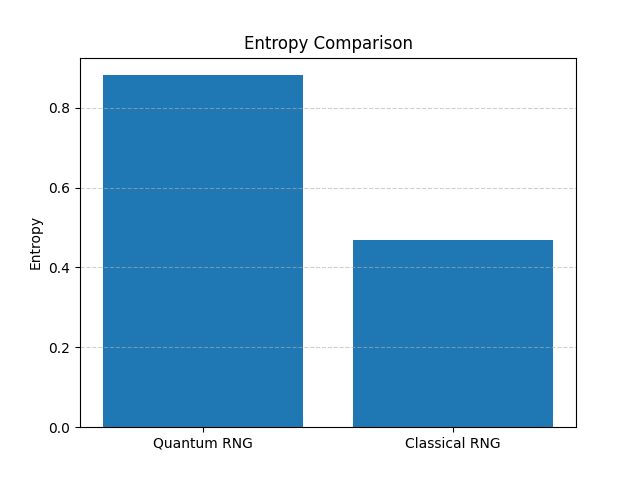
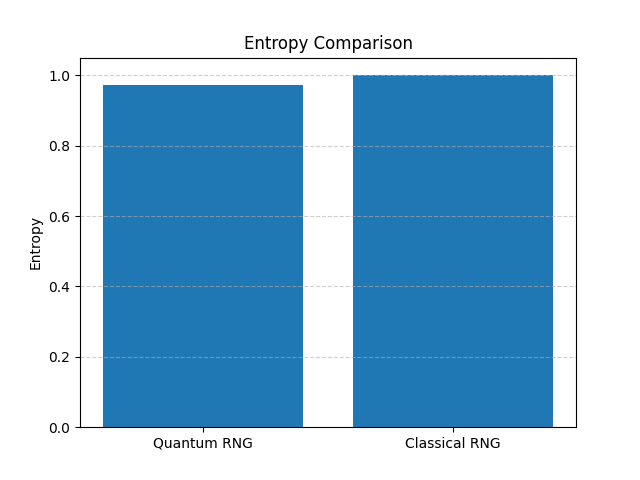
feat: Enhance comparison API and frontend to include quantum and classical bit samples

diff --git a/QRNG_PROJECT/frontend/src/app/compare/page.tsx b/QRNG_PROJECT/frontend/src/app/compare/page.tsx
@@ -6,7 +6,25 @@ import { BarChart, Bar, XAxis, YAxis, Tooltip, ResponsiveContainer, Legend } fro
 interface ComparisonResult {
   quantum_entropy: number;
   classical_entropy: number;
+  quantum_bits: string;
+  classical_bits: string;
 }
+
+const formatBits = (bits: string, maxLen = 64) => {
+  if (!bits) return "";
+  if (bits.length <= maxLen) return bits;
+  return `${bits.slice(0, maxLen)}...`;
+};
+
+const bitsToNumber = (bits: string, chunk = 32) => {
+  if (!bits || bits.length < 1) return null;
+  const slice = bits.slice(0, chunk);
+  try {
+    return Number.parseInt(slice, 2);
+  } catch {
+    return null;
+  }
+};
 
 export default function ComparePage() {
   const [result, setResult] = useState<ComparisonResult | null>(null);
@@ -48,6 +66,16 @@ export default function ComparePage() {
           <div className="bg-gray-800 rounded-xl p-6">
             <p className="text-gray-400 text-sm">Classical Entropy</p>
             <p className="text-3xl font-bold text-blue-400">{result.classical_entropy?.toFixed(4)}</p>
+          </div>
+          <div className="bg-gray-800 rounded-xl p-6">
+            <p className="text-gray-400 text-sm">Quantum sample number (first 32 bits)</p>
+            <p className="text-2xl font-bold text-cyan-400">{bitsToNumber(result.quantum_bits)}</p>
+            <p className="text-gray-400 text-xs break-words mt-2">{formatBits(result.quantum_bits, 80)}</p>
+          </div>
+          <div className="bg-gray-800 rounded-xl p-6">
+            <p className="text-gray-400 text-sm">Classical sample number (first 32 bits)</p>
+            <p className="text-2xl font-bold text-blue-400">{bitsToNumber(result.classical_bits)}</p>
+            <p className="text-gray-400 text-xs break-words mt-2">{formatBits(result.classical_bits, 80)}</p>
           </div>
           <div className="bg-gray-800 rounded-xl p-6 col-span-2 h-64">
             <ResponsiveContainer width="100%" height="100%">

diff --git a/QRNG_PROJECT/backend/app/services/analysis_service.py b/QRNG_PROJECT/backend/app/services/analysis_service.py
@@ -1,96 +1,77 @@
-# from numpy import ones, zeros
 import os
+import time
 import matplotlib.pyplot as plt
 from dotenv import load_dotenv
 from urllib.parse import urljoin
 
-load_dotenv()
-BACKEND_URL = os.getenv("BACKEND_URL", "http://localhost:8000")
-from app.utils.randomness_tests import frequency_test, entropy_test
+from app.utils.randomness_tests import frequency_test, entropy_test, chi_square_test
 from app.services.quantum_service import generate_qubits
 from app.services.classical_rng_service import generate_classical_bits
-from app.utils.visualization import plot_entropy_progress
-from app.utils.visualization import save_bit_distribution_plot
-from app.utils.visualization import save_entropy_comparison_plot
-from app.utils.randomness_tests import chi_square_test
+from app.utils.visualization import save_bit_distribution_plot, save_entropy_comparison_plot
+
+load_dotenv()
+BACKEND_URL = os.getenv("BACKEND_URL", "http://localhost:8000")
+
+
+def _to_bitstring(bits) -> str:
+    """Normalise any bit source (string or list) to a plain '0'/'1' string."""
+    if isinstance(bits, list):
+        return "".join(str(b) for b in bits)
+    return str(bits)
+
+
+def _make_url(plot_path: str) -> str:
+    """Convert a local file path to an absolute backend URL."""
+    clean = plot_path.replace("\\", "/").lstrip("/")
+    return urljoin(BACKEND_URL.rstrip("/") + "/", clean)
+
+
 def run_randomness_analysis(bits):
-
-    frequency = frequency_test(bits)
-    entropy = entropy_test(bits)
-    chi_square = chi_square_test(bits)
-
+    bits = _to_bitstring(bits)
     return {
-        "frequency_test": frequency,
-        "entropy_test": entropy,
-        "chi_square_test": chi_square
+        "frequency_test": frequency_test(bits),
+        "entropy_test": entropy_test(bits),
+        "chi_square_test": chi_square_test(bits),
     }
-def plot_bit_distribution(zeros, ones):
-    import time
-    labels = ["0s", "1s"]
-    values = [zeros, ones]
 
-    plt.figure()
-    plt.bar(labels, values)
-    plt.title("Bit Distribution")
-    plt.ylabel("Count")
-    plt.grid(axis="y", linestyle="--", alpha=0.6)
 
-    filename = f"bit_distribution_{int(time.time())}.png"
-    plot_dir = os.path.join(os.path.dirname(os.path.abspath(__file__)), "../utils/static/plots")
-    os.makedirs(plot_dir, exist_ok=True)
-    plot_path = os.path.join(plot_dir, filename)
+def run_experiment(generator: str, sample_size: int):
+    raw = generate_qubits(sample_size) if generator == "quantum" \
+          else generate_classical_bits(sample_size)
 
-    plt.savefig(plot_path)
-    plt.close()
-
-    return plot_path
-
-def run_experiment(generator, sample_size):
-
-    if generator == "quantum":
-        bits = generate_qubits(sample_size)
-    else:
-        bits = generate_classical_bits(sample_size)
-
-    # 🔥 FIX: normalize all to string
-    bits = [str(b) for b in bits]
+    bits = _to_bitstring(raw)
 
     zeros = bits.count("0")
-    ones = bits.count("1")
-
-    ent = entropy_test(bits)
-    chi_square = chi_square_test(bits)
+    ones  = bits.count("1")
+    ent   = entropy_test(bits)
+    chi   = chi_square_test(bits)
 
     plot_path = save_bit_distribution_plot(zeros, ones)
-    # Normalize path separators and remove leading slashes for clean URL construction
-    clean_plot_path = plot_path.replace("\\", "/").lstrip("/")
-    distribution_url = urljoin(BACKEND_URL.rstrip("/") + "/", clean_plot_path)
 
     return {
-        "generator": generator,
-        "sample_size": sample_size,
-        "zeros": zeros,
-        "ones": ones,
-        "entropy": ent["entropy"],
-        "chi_square": chi_square["chi_square"],
-        "distribution_plot": distribution_url
+        "generator":         generator,
+        "sample_size":       sample_size,
+        "zeros":             zeros,
+        "ones":              ones,
+        "entropy":           ent["entropy"],
+        "chi_square":        chi["chi_square"],
+        "distribution_plot": _make_url(plot_path),
     }
 
-def compare_rng(sample_size):
 
-    quantum_bits = generate_qubits(sample_size)
-    classical_bits = generate_classical_bits(sample_size)
+def compare_rng(sample_size: int):
+    quantum_bits   = _to_bitstring(generate_qubits(sample_size))
+    classical_bits = _to_bitstring(generate_classical_bits(sample_size))
 
-    quantum_entropy = entropy_test(quantum_bits)["entropy"]
+    quantum_entropy   = entropy_test(quantum_bits)["entropy"]
     classical_entropy = entropy_test(classical_bits)["entropy"]
-    
+
     plot_path = save_entropy_comparison_plot(quantum_entropy, classical_entropy)
-    # Normalize path separators and remove leading slashes for clean URL construction
-    clean_plot_path = plot_path.replace("\\", "/").lstrip("/")
-    comparison_url = urljoin(BACKEND_URL.rstrip("/") + "/", clean_plot_path)
 
     return {
-        "quantum_entropy": quantum_entropy,
+        "quantum_entropy":   quantum_entropy,
         "classical_entropy": classical_entropy,
-        "comparison_plot": comparison_url
+        "quantum_bits":      quantum_bits,
+        "classical_bits":    classical_bits,
+        "comparison_plot":   _make_url(plot_path),
     }

diff --git a/QRNG_PROJECT/backend/app/services/quantum_service.py b/QRNG_PROJECT/backend/app/services/quantum_service.py
@@ -6,37 +6,34 @@ MAX_QUBITS = 24
 simulator = AerSimulator()
 
 
-def _generate_batch(size: int):
-
+def _generate_batch(size: int) -> str:
     qc = QuantumCircuit(size, size)
-
     qc.h(range(size))
-
     qc.measure(range(size), range(size))
 
     compiled = transpile(qc, simulator)
-
     job = simulator.run(compiled, shots=1)
-
     result = job.result()
-
     counts = result.get_counts()
 
     bitstring = list(counts.keys())[0]
 
+    # ✅ Fix 1: strip spaces Qiskit inserts for readability
+    bitstring = bitstring.replace(" ", "")
+
+    # ✅ Fix 2: reverse to get big-endian (qubit 0 = leftmost bit)
+    bitstring = bitstring[::-1]
+
     return bitstring
 
 
-def generate_qubits(sample_size: int):
-
+def generate_qubits(sample_size: int) -> str:
     bits = ""
 
     while len(bits) < sample_size:
-
         batch_size = min(MAX_QUBITS, sample_size - len(bits))
-
         batch_bits = _generate_batch(batch_size)
-
         bits += batch_bits
 
-    return bits
+    # ✅ Trim to exact size in case last batch overshot
+    return bits[:sample_size]

diff --git a/QRNG_PROJECT/backend/app/main.py b/QRNG_PROJECT/backend/app/main.py
@@ -1,8 +1,7 @@
 from dotenv import load_dotenv
 from fastapi import FastAPI
-from fastapi.middleware.cors import CORSMiddleware # Add this import
+from fastapi.middleware.cors import CORSMiddleware 
 from fastapi.staticfiles import StaticFiles
-
 from app.api.analysis import router as analysis_router
 from app.api.comparision import router as comparison_router
 from app.db.session import engine
@@ -23,7 +22,6 @@ app.add_middleware(
     allow_headers=["*"],
 )
 # ---------------------------
-
 app.mount("/static", StaticFiles(directory="static"), name="static")
 
 app.include_router(analysis_router)

diff --git a/QRNG_PROJECT/backend/app/api/comparision.py b/QRNG_PROJECT/backend/app/api/comparision.py
@@ -1,10 +1,10 @@
-from fastapi import APIRouter
+from fastapi import APIRouter, Body
 from app.services.analysis_service import compare_rng
 
 router = APIRouter(prefix="/comparison", tags=["Comparison"])
 
 
 @router.post("/compare-rng")
-def compare_random_generators(sample_size: int):
+def compare_random_generators(sample_size: int = Body(..., embed=True)):
     result = compare_rng(sample_size)
     return result

diff --git a/QRNG_PROJECT/backend/app/services/classical_rng_service.py b/QRNG_PROJECT/backend/app/services/classical_rng_service.py
@@ -1,10 +1,6 @@
 import random
 
+random.seed(42)
+
 def generate_classical_bits(n: int = 10):
-
-    bits = []
-
-    for _ in range(n):
-        bits.append(random.randint(0,1))
-
-    return bits
+    return [random.randint(0,1) for _ in range(n)]
